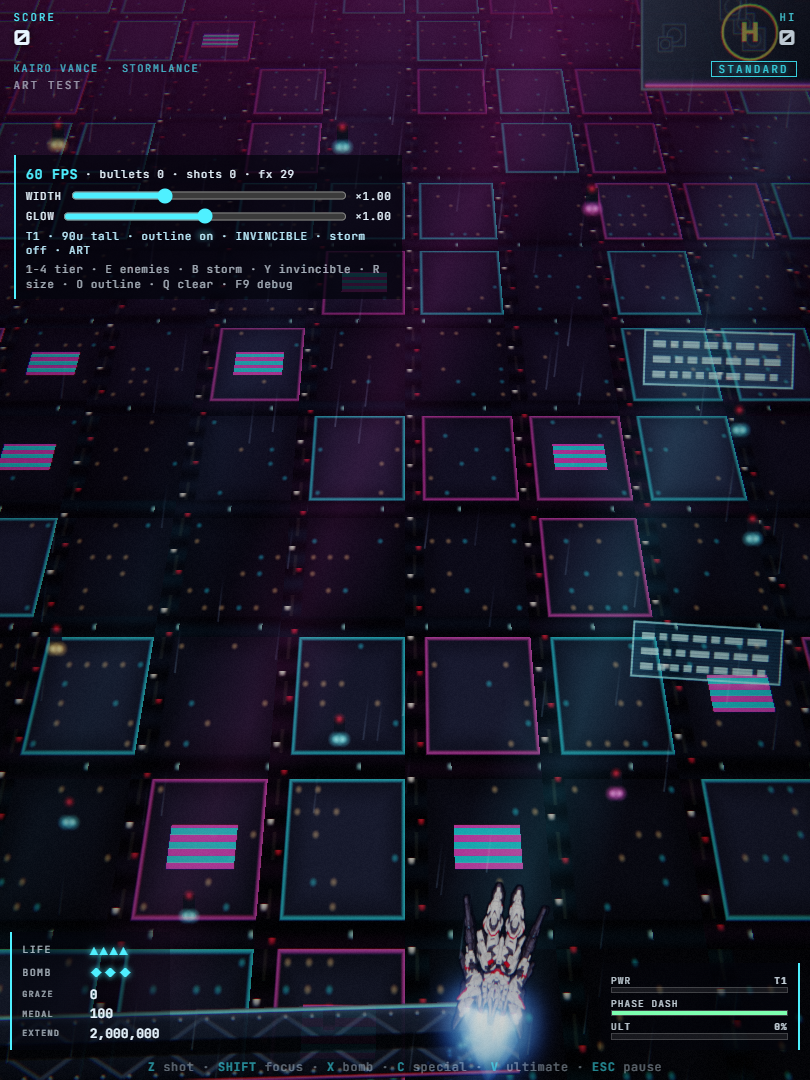
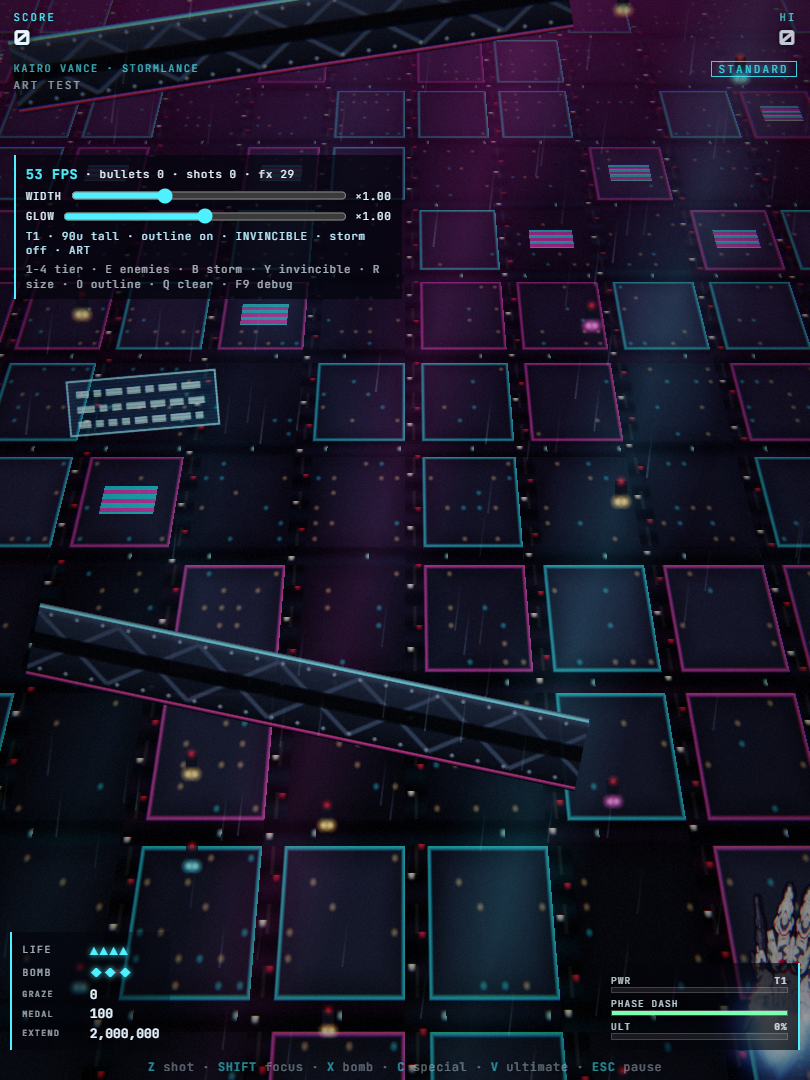
Kairo: fire from the chest gun, never the feet
- Main lances leave from chest-gun muzzles either side of the central spike
  (old 8-unit twin spacing); the focus beam starts at the chest gun tip
- The twin structures at the top of top_down_main.png are the feet: no firing
- Tier 1-2 lance hit radius back to 5 (r = 5 / 5 / 5.5 / 6): boss, single and
  wave-line DPS match main within ±1 at every tier

diff --git a/src/pilots/kairo.js b/src/pilots/kairo.js
@@ -72,8 +72,8 @@ function drawPod(ctx, w, h) {
 
 function railSprite(ctx, w, h) { drawBolt(ctx, w, h, 'rgba(90,240,255,0.9)'); }
 
-// Art test (approved gameplay change): lances leave from the twin forward
-// barrels (and the rifle tips at tier 4) instead of the nose. Each lance is aimed at the point
+// Art test (approved gameplay change): lances leave from the chest gun (and
+// the rifle tips at tier 4) instead of the nose. The feet never fire. Each lance is aimed at the point
 // its old counterpart reached REF units ahead, so the covered area matches.
 // Old pattern per side s = ±1: [x, y, outward angle, damage, from tier].
 const LANCES = [
@@ -246,7 +246,7 @@ export default {
   fire(p, w) {
     const t = p.tier, S = w.shots, rail = p.ps.fRail;
     if (p.focus) {
-      // Continuous piercing beam from the central spike, re-declared every step.
+      // Continuous piercing beam from the chest gun, re-declared every step.
       const width = 5 + t * 2;
       const [bx, by] = anchor('beam');
       const bm = w.beam(p.x + bx, p.y + by, p.x + bx, -20, width, 0.2 + 0.06 * t, CYAN);

diff --git a/src/pilots/kairoArt.js b/src/pilots/kairoArt.js
@@ -26,9 +26,9 @@ const DEFAULT_ANCHORS = {
   image: { w: 228, h: 372, artH: 360, pad: 6 },
   anchors: {
     hitbox: [114, 193.5], head: [114, 263.9],
-    gunL: [85.8, 8.7], gunR: [142.1, 8.7],
+    gunL: [98, 130.4], gunR: [130, 130.4],
     rifleL: [12.3, 48], rifleR: [216.1, 48],
-    beam: [114, 14.2],
+    beam: [114, 125.1],
     packL: [99.6, 314.8], packR: [128.3, 314.8],
     footL: [84.6, 312.4], footR: [143.3, 312.4],
     calfL: [52.6, 308], calfR: [175.3, 308],

diff --git a/src/pilots/kairoFx.js b/src/pilots/kairoFx.js
@@ -10,7 +10,7 @@ const LANCE = [0.25, 0.85, 1.45];
 // and the bright core of each shot is drawn exactly as wide as its hit area.
 
 /** Hit radius of a main lance per power tier (the bright core is 2r wide). */
-export const LANCE_R = [4, 4.5, 5, 6];
+export const LANCE_R = [5, 5, 5.5, 6];
 export const SHARD_TAG = 10; // shots.aux tag for option shards (lances store their tier)
 
 /** Glow fades as the screen fills with enemy bullets (readability rule). */

diff --git a/PROGRESS.md b/PROGRESS.md
@@ -693,17 +693,17 @@ Brief: [KAIRO_ART_TEST.md](src/pilot%20concept%20art/Kairo%20Vance/KAIRO_ART_TES
 The branch stays unmerged until the owner says so.
 
 **What changed for Kairo**
-- **In-game vehicle.** The hand-made Stormlance mecha (`top_down_main.png`: flying feet-first with the twin barrels and rifles pointing up the screen) replaces the procedural ship.
-  - It is split into three layers: the body (barrels, torso, head) plus two wing assemblies (rifle, arm and binder). At rest the layers rebuild the original within 1.7/255.
+- **In-game vehicle.** The hand-made Stormlance mecha (`top_down_main.png`: flying feet-first with the chest gun and rifles pointing up the screen) replaces the procedural ship.
+  - It is split into three layers: the body (legs, torso, head) plus two wing assemblies (rifle, arm and binder). At rest the layers rebuild the original within 1.7/255.
   - Motion is all code-driven: banking tilt and squash, idle bob and wing breathing, a wing flare in focus, and a fold plus afterimages and a ribbon trail in phase-dash.
   - The default size is **90 units tall** (the owner's choice). The hitbox is unchanged (2.4).
 - **Thrusters.** Wide blue back plumes and nozzle glow at the rear, plus foot flames and small binder-vent flames. The painted red vents are kept. Flame size follows state: idle, moving, moving up, dash.
 - **Weapons (approved gameplay change).**
-  - Lances fire from the twin forward barrels, and the tier-4 extras from the rifle tips. Each is aimed where the old shot reached 240 units ahead.
-  - The focus beam starts between the barrel tips.
+  - Lances fire from the chest gun, and the tier-4 extras from the rifle tips. The feet never fire. Each is aimed where the old shot reached 240 units ahead.
+  - The focus beam starts at the chest gun.
   - `tools/dps.mjs` shows boss, single-target and wave DPS within ±1 of `main` at every tier; focus is identical.
 - **FX**, rebuilt in code from the FX sheet:
-  - diamond-tipped lances whose bright core is exactly the hit area (r = 4 / 4.5 / 5 / 6 by tier), inside a semi-transparent glow;
+  - diamond-tipped lances whose bright core is exactly the hit area (r = 5 / 5 / 5.5 / 6 by tier), inside a semi-transparent glow;
   - tier-4 ring pulses;
   - the focus beam with a solid core, travelling rings and a charge orb;
   - 2× muzzle flares and bigger hit sparks.

diff --git a/ART_PIPELINE.md b/ART_PIPELINE.md
@@ -122,8 +122,8 @@ The front view is cleaned, trimmed and resized. The portrait gets a 4:5 crop fro
   "image": { "w": 228, "h": 372, "artH": 360, "pad": 6 },
   "anchors": {
     "hitbox": [114, 193.5],
-    "gunL": [85.8, 8.7],
-    "gunR": [142.1, 8.7]
+    "gunL": [98, 130.4],
+    "gunR": [130, 130.4]
   }
 }
 ```
@@ -143,9 +143,9 @@ The `anchors` block above is cut down; Kairo's real file has more entries (see t
 | Name | Use | Gameplay? |
 |---|---|---|
 | `hitbox` | chest centre, placed on `player.x/y` | visual placement only |
-| `gunL/R` | twin forward barrel tips: main lance origins | **yes**: shot spawn points |
+| `gunL/R` | chest gun muzzles either side of the central spike: main lance origins | **yes**: shot spawn points |
 | `rifleL/R` | long rifle tips: tier-4 extra lance origins (move with the wing layers) | **yes** |
-| `beam` | focus-beam origin + charge orb | **yes** (beam start) |
+| `beam` | chest gun tip: focus-beam origin + charge orb | **yes** (beam start) |
 | `packL/R` | wide back-thruster plumes + nozzle glow | no |
 | `footL/R`, `calfL/R` | foot thruster flames + binder vents, exhaust | no |
 | `head` | reference | no |

diff --git a/src/pilot concept art/Kairo Vance/ASSET_NOTES.md b/src/pilot concept art/Kairo Vance/ASSET_NOTES.md
@@ -136,3 +136,8 @@ matches the brief's "wing-binder with rifle".
 - **Thrusters.** Wide blue back plumes come from under the skirt (`packL/R` ≈ (452, 1300) / (570, 1300)), with foot thrusters at the red-tipped feet (`footL/R` ≈ (390, 1290) / (632, 1290)) and small flames at the red binder vents (`calfL/R`).
 - **Layers.** Each wing layer is a rifle, arm and binder (pivot at the shoulder, about (300, 960)). The body is the barrels, torso and head.
 - **Anchor names.** The old `capL/R` and `wingL/R` anchors are gone. `Top-Down_Back.png` stays in the folder, unused.
+
+**Correction (owner).** The twin structures at the top of `top_down_main.png` are the **feet**, and the feet never fire.
+- Normal lances now leave from the **chest gun**: `gunL/R` ≈ (445, 540) / (577, 540), either side of the central spike. That is 8 units apart at size 90, the same spacing as the old twin lances, so wave-clear coverage is unchanged.
+- The focus beam starts at its tip, `beam` ≈ (511, 518).
+- The rifles still fire the tier-4 extras.
